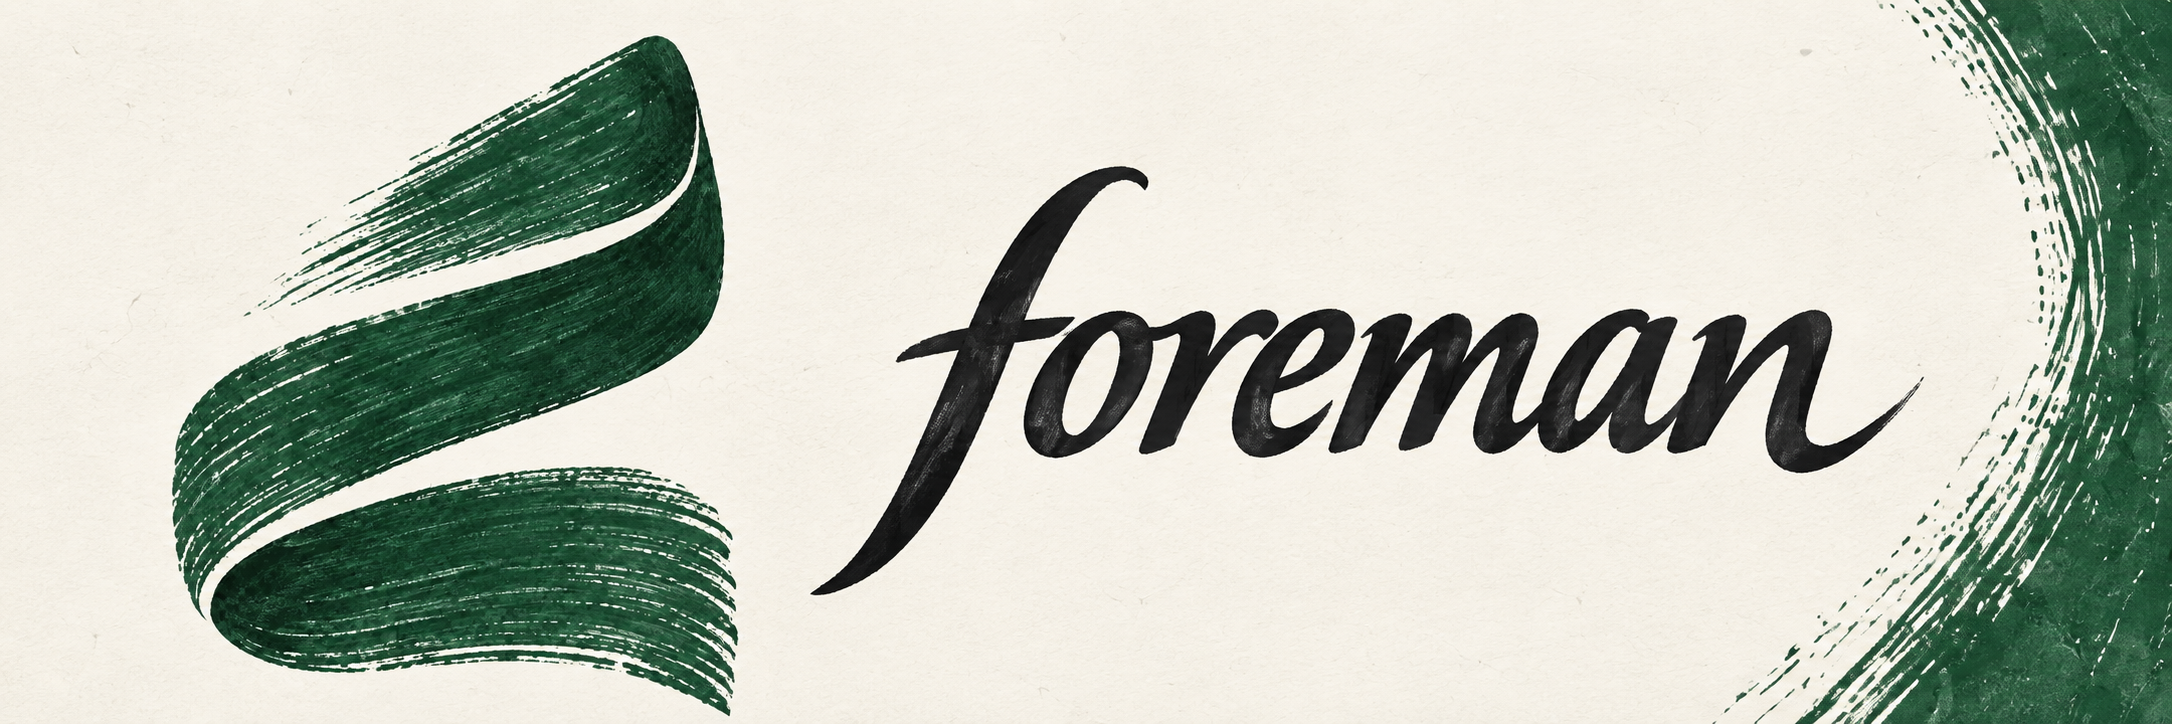
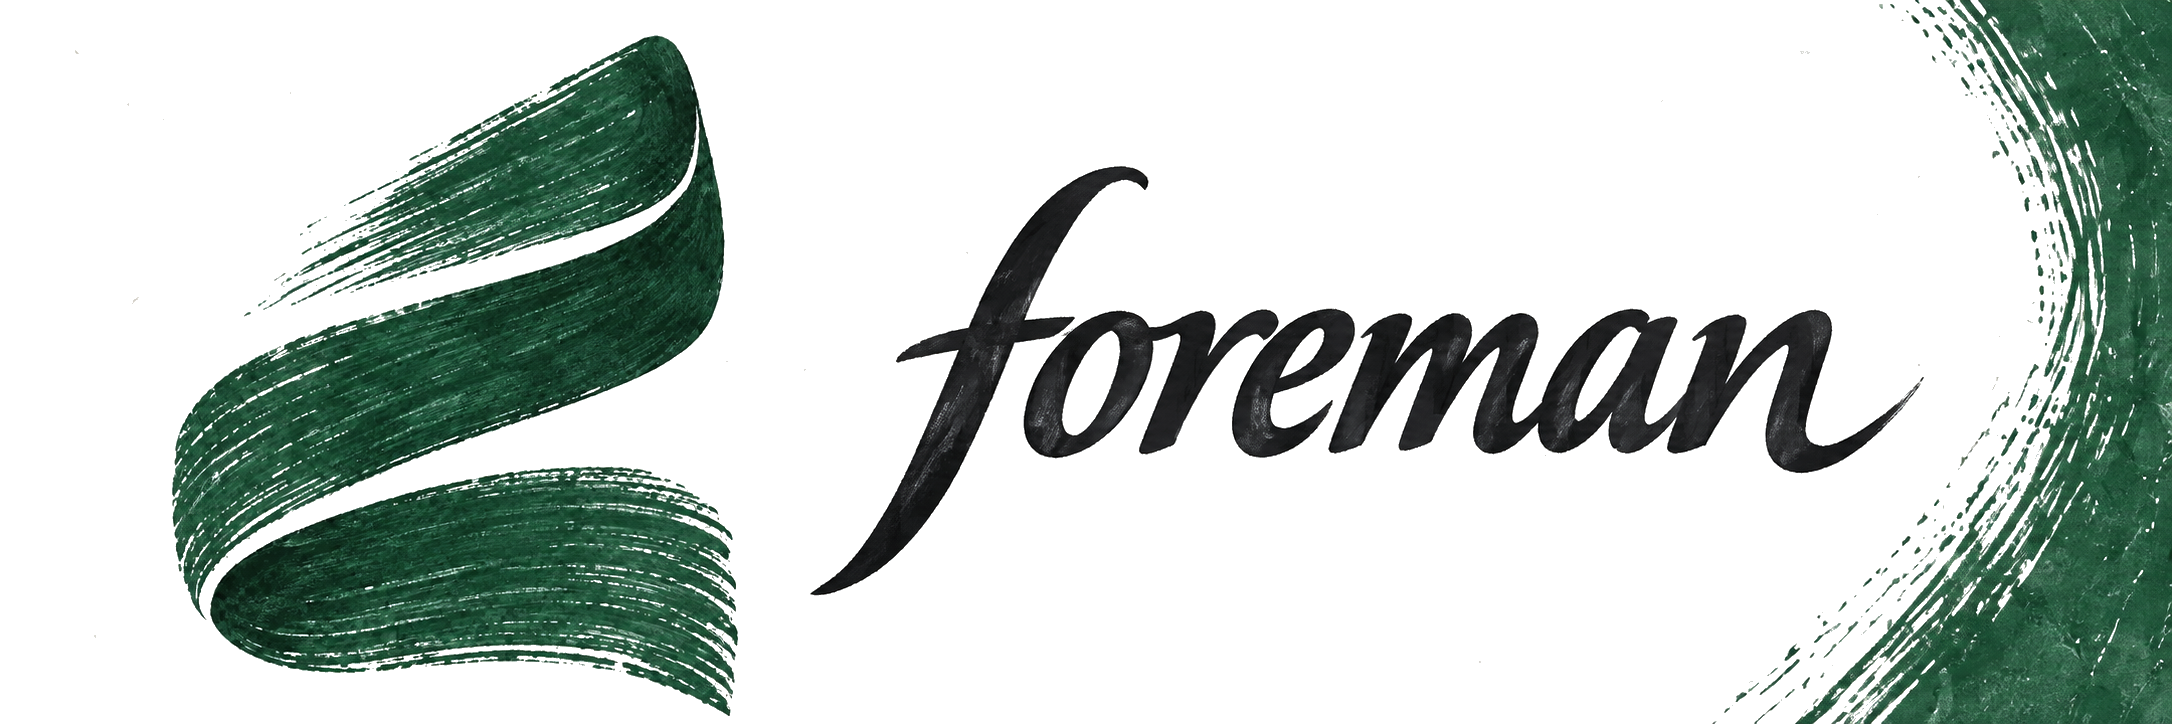
Restore product heroes and refine branding presentation

diff --git a/README.md b/README.md
@@ -16,6 +16,19 @@
 
 > **TL;DR** — Your plan stays next to your code. The next task arrives with its context checked.
 
+<!-- foundry:hero -->
+<p align="center"><img src="assets/hero.svg" alt="Foreman original product visualization" width="700"></p>
+
+The task trail above illustrates the workflow. The recorded demo below comes from Claude Code; it is not a Codex measurement. [Evidence and methodology](https://github.com/V-Songbird/foundry/tree/main/docs/foreman).
+
+<details>
+<summary>Watch the recorded Claude Code demo</summary>
+
+<p align="center"><img src="assets/demo.svg" alt="Recorded Claude Code demonstration of Foreman" width="700"></p>
+
+</details>
+<!-- /foundry:hero -->
+
 <p align="center"><img src="assets/mascot.svg" alt="Ember gathers scattered papers into a task list and points to the next task." width="700"></p>
 
 ## What is this?

diff --git a/CHANGELOG.md b/CHANGELOG.md
@@ -7,6 +7,10 @@ version number? It lives in the
 [foundry marketplace](https://github.com/V-Songbird/foundry) listing —
 that's why `plugin.json` here carries none.
 
+## 2.6.3 — 2026-09-09
+
+Restore the original product hero and recorded Claude demo with clear provenance. Use white light-theme banners.
+
 ## 2.6.2 — 2026-09-09
 
 New Tinta y oficio banners adapt to light and dark GitHub themes.
